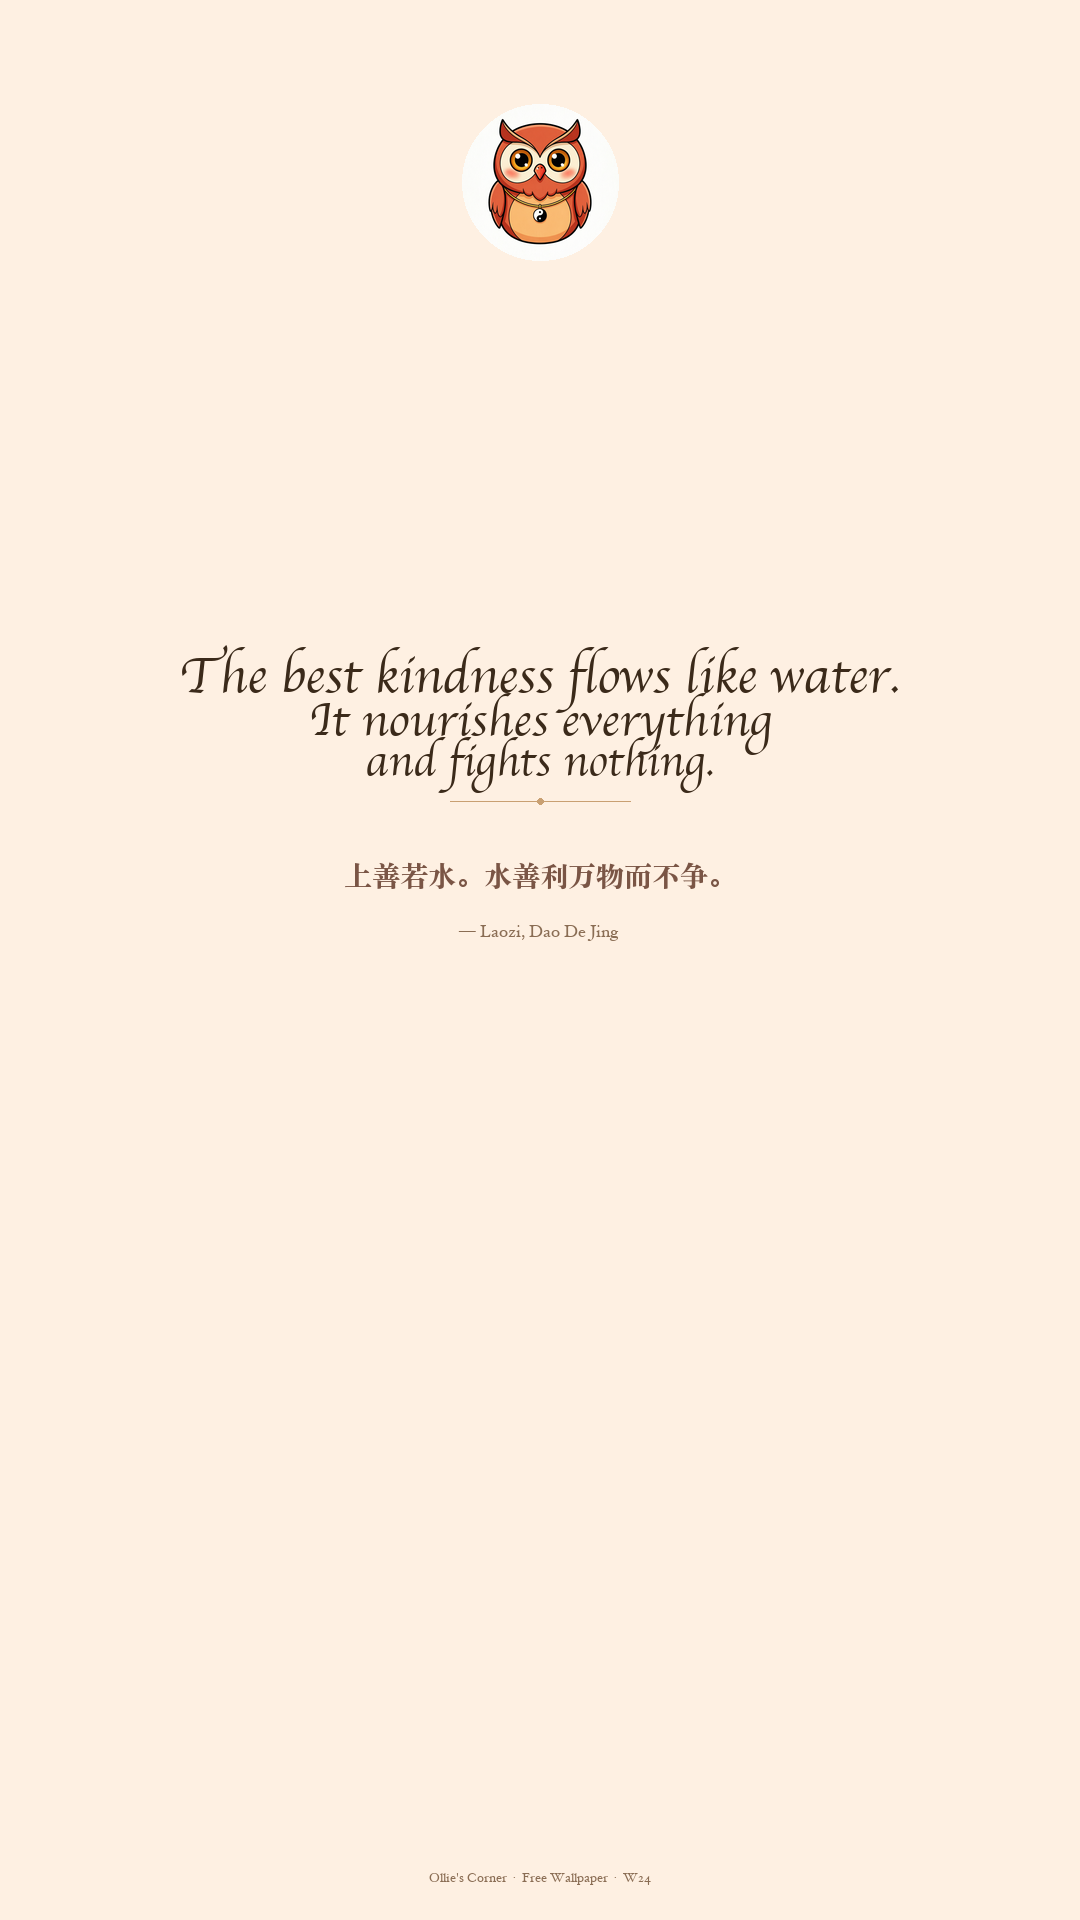
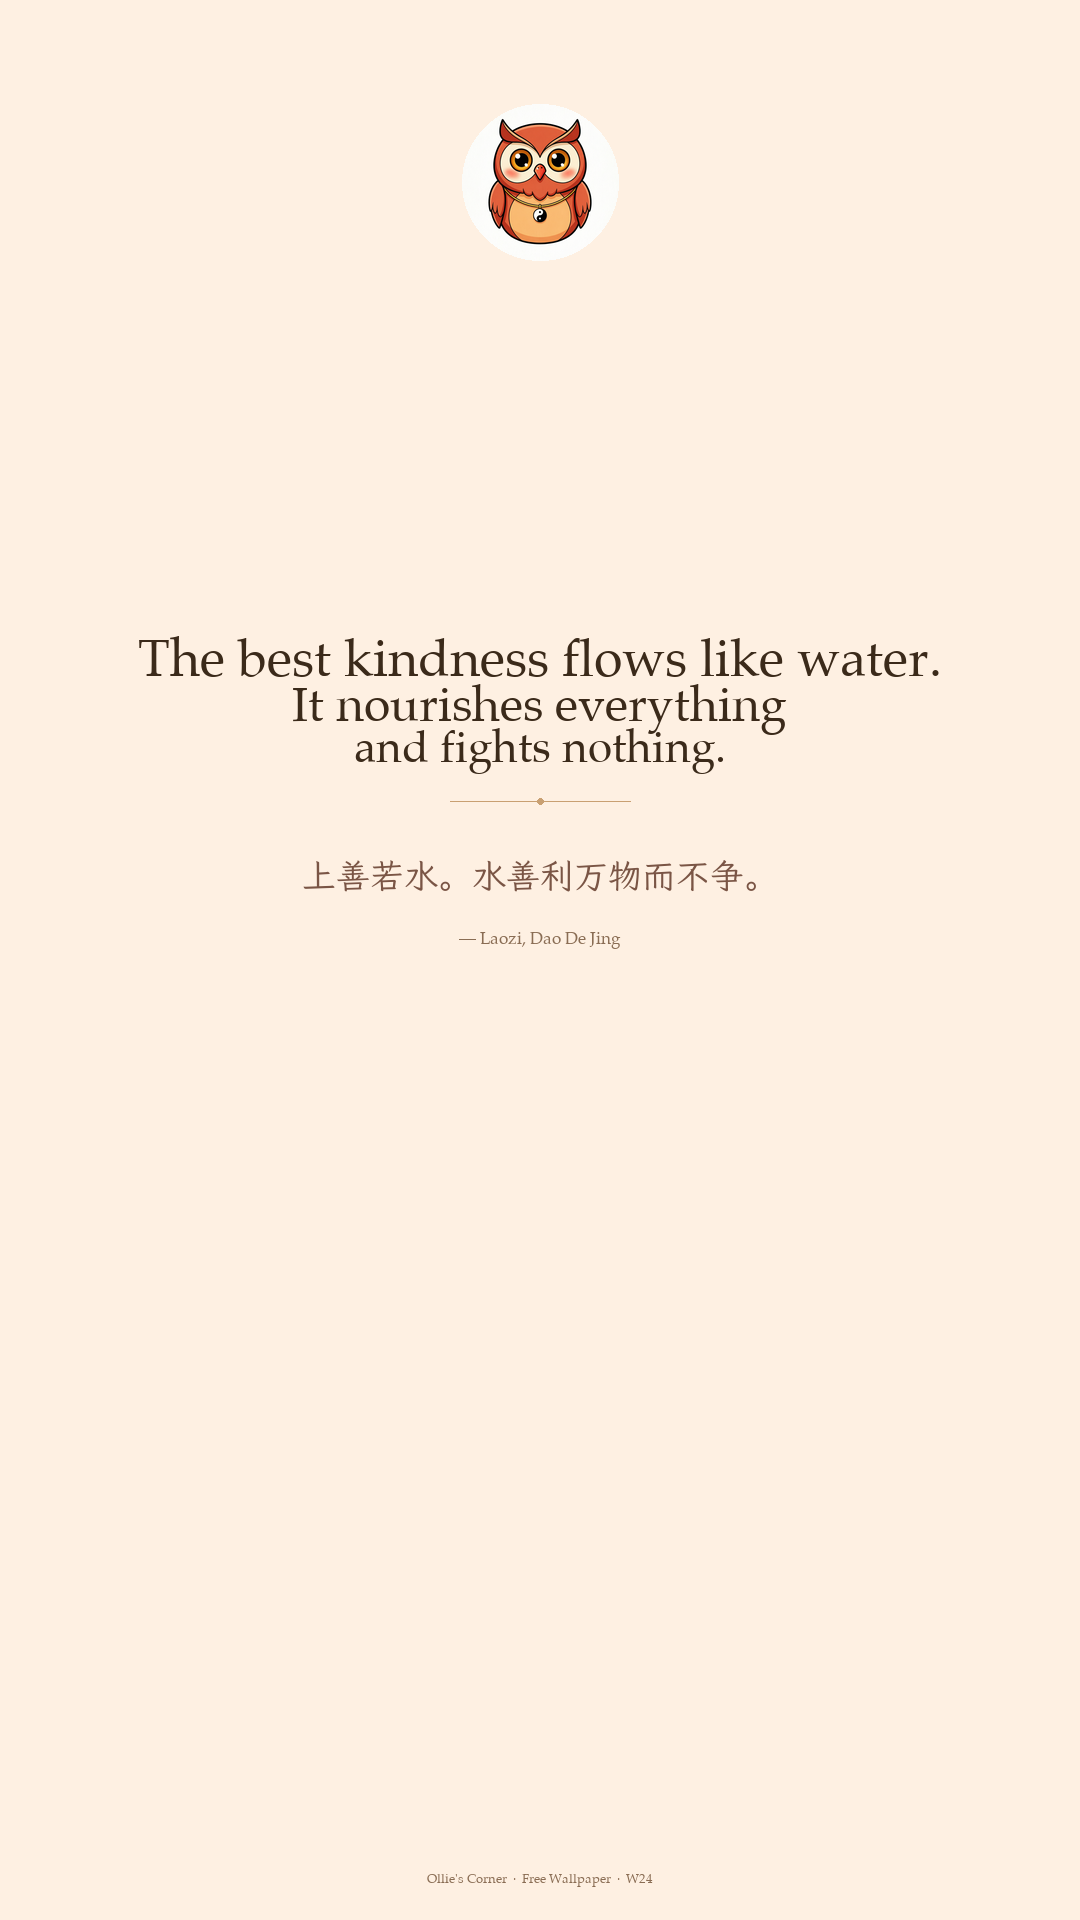
feat(ollies-corner): v5 — Palatino + 霞鹜文楷 calligraphy
- English: Palatino (warm humanist serif, clean and elegant)
- Chinese: LXGW WenKai 霞鹜文楷 (open-source KaiTi calligraphy)
- Larger CN text to match KaiTi stroke weight
- Clean, minimal aesthetic — no flashy cursive

diff --git a/ollies-corner.html b/ollies-corner.html
@@ -15,7 +15,7 @@
 <meta name="description" content="Free Ollie wallpapers updated weekly, each with a classical Chinese zen quote translated for the modern mind. Bring a little warmth and wisdom to your screen.">
 <meta property="og:title" content="Ollie's Corner — Weekly Wallpapers & Zen Quotes | TCM Way">
 <meta property="og:description" content="Each week, a new wallpaper with a hand-picked zen quote from Chinese classical wisdom — translated to make you smile, breathe, and maybe learn something.">
-<meta property="og:image" content="https://tcmway.net/images/ollie-corner/wallpapers/ollie-desktop-w24.png?v=4">
+<meta property="og:image" content="https://tcmway.net/images/ollie-corner/wallpapers/ollie-desktop-w24.png?v=5">
 <meta property="og:url" content="https://tcmway.net/ollies-corner.html">
 <meta property="og:type" content="website">
 <meta property="og:site_name" content="TCM Way">
@@ -219,19 +219,19 @@
 
 <div class="wallpaper-grid">
   <div class="wallpaper-card">
-    <img src="images/ollie-corner/wallpapers/ollie-desktop-w24.png?v=4" alt="Ollie desktop wallpaper — The best kindness flows like water" loading="lazy">
+    <img src="images/ollie-corner/wallpapers/ollie-desktop-w24.png?v=5" alt="Ollie desktop wallpaper — The best kindness flows like water" loading="lazy">
     <div class="info">
       <div class="label">Desktop</div>
       <div class="dim">1920 × 1080</div>
-      <a href="images/ollie-corner/wallpapers/ollie-desktop-w24.png?v=4" download class="btn">Download</a>
+      <a href="images/ollie-corner/wallpapers/ollie-desktop-w24.png?v=5" download class="btn">Download</a>
     </div>
   </div>
   <div class="wallpaper-card">
-    <img src="images/ollie-corner/wallpapers/ollie-phone-w24.png?v=4" alt="Ollie phone wallpaper — The best kindness flows like water" loading="lazy">
+    <img src="images/ollie-corner/wallpapers/ollie-phone-w24.png?v=5" alt="Ollie phone wallpaper — The best kindness flows like water" loading="lazy">
     <div class="info">
       <div class="label">Phone</div>
       <div class="dim">1080 × 1920</div>
-      <a href="images/ollie-corner/wallpapers/ollie-phone-w24.png?v=4" download class="btn">Download</a>
+      <a href="images/ollie-corner/wallpapers/ollie-phone-w24.png?v=5" download class="btn">Download</a>
     </div>
   </div>
 </div>
